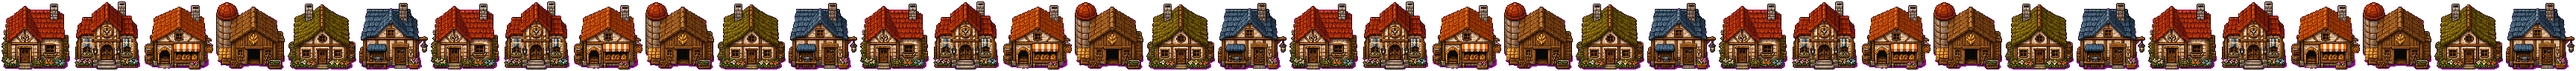
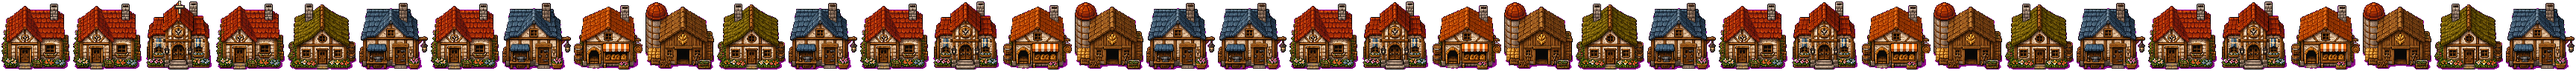
Separate square buildings and identify church

Changed region(s): [[0.0312, 0.0312, 0.125, 1.0], [0.1875, 0.0312, 0.2188, 1.0], [0.4375, 0.0625, 0.4688, 1.0]]

diff --git a/worlds/bigville_world.py b/worlds/bigville_world.py
@@ -436,6 +436,9 @@ class BigvilleWorld:
             self.eng.add_edge_unchecked(self._town, "has_tool", t)
             self._tools[tk] = t
         self._places = {}; self._containers = {}
+        # Building anchors are physical sites, not just labels. Keep each
+        # authored footprint clear so adjacent facades cannot overlap.
+        self._building_sites = {}
         for kind, spec in E.BUILDINGS.items():           # install the town's buildings from the data
             self._install_building(kind, spec)
 
@@ -949,6 +952,7 @@ class BigvilleWorld:
 
     def _anchor_for_building(self, kind):
         work = self._map_layout.get("work", {}) if self._map_layout else {}
+        fixed_sites = self._map_layout.get("building_sites", {}) if self._map_layout else {}
         aliases = {"records_office": "townhall", "watchhouse": "watch", "wellhouse": "market",
                    "latrine": "market", "compost_yard": "farm", "root_cellar": "farm",
                    "granary": "farm", "smokehouse": "bakery", "scriptorium": "press",
@@ -956,7 +960,7 @@ class BigvilleWorld:
                    "woodshop": "carpenter", "sawpit": "carpenter", "tannery": "market",
                    "cobbler": "market", "tailorshop": "market", "weavery": "market",
                    "forge": "mason", "kitchen": "bakery", "dairy": "farm", "wharf": "fish"}
-        target = work.get(kind) or work.get(aliases.get(kind, "")) or work.get("market")
+        target = fixed_sites.get(kind) or work.get(kind) or work.get(aliases.get(kind, "")) or work.get("market")
         if isinstance(target, list):
             target = tuple(target)
         if target in self._map_cells:
@@ -965,6 +969,47 @@ class BigvilleWorld:
             if tuple(pt) in self._map_cells:
                 return tuple(pt)
         return next(iter(self._map_cells), None)
+
+    def _allocate_building_site(self, kind, spec, requested):
+        """Choose the nearest clear walkable site for a building footprint.
+
+        Several services historically shared one anchor cell. That was valid
+        graph data, but it made their physical facades render on top of one
+        another. Each place remains distinct; only its map site is resolved
+        here so buildings have room to stand.
+        """
+        footprint = spec.get("footprint", spec.get("size", (3, 3)))
+        if isinstance(footprint, (int, float)):
+            footprint = (int(footprint), int(footprint))
+        if not isinstance(footprint, (list, tuple)) or len(footprint) != 2:
+            footprint = (3, 3)
+        width, height = max(1, int(footprint[0])), max(1, int(footprint[1]))
+        target = tuple(requested) if requested is not None else (0, 0)
+        map_width = len(self._map_grid[0]) if self._map_grid else 0
+        map_height = len(self._map_grid or [])
+
+        def clear(site):
+            x, y = site
+            if x < 0 or y < 0 or x + width > map_width or y + height > map_height:
+                return False
+            if any((x + dx, y + dy) not in self._map_cells
+                   for dy in range(height) for dx in range(width)):
+                return False
+            for ox, oy, ow, oh in self._building_sites.values():
+                if x < ox + ow and ox < x + width and y < oy + oh and oy < y + height:
+                    return False
+            return True
+
+        candidates = [(x, y) for y in range(max(0, map_height - height + 1))
+                      for x in range(max(0, map_width - width + 1))]
+        candidates.sort(key=lambda site: (abs(site[0] - target[0]) + abs(site[1] - target[1]),
+                                          site[1], site[0]))
+        for site in candidates:
+            if clear(site):
+                return (site[0], site[1], width, height)
+        # Custom scenarios may deliberately pack buildings tightly. Preserve
+        # the requested anchor rather than making world construction fail.
+        return (target[0], target[1], width, height)
 
     def _attach_at_cell(self, node, cell, edge="at_cell"):
         if cell in self._map_cells:
@@ -2953,7 +2998,10 @@ class BigvilleWorld:
             r = self.eng.add_node("Room", {"kind": room})
             self.eng.add_edge_unchecked(p, "has_room", r)
         self._places[place_key] = p
-        self._attach_at_cell(p, cell if cell is not None else self._anchor_for_building(kind))
+        requested = cell if cell is not None else self._anchor_for_building(kind)
+        site = self._allocate_building_site(place_key, spec, requested)
+        self._building_sites[place_key] = site
+        self._attach_at_cell(p, site[:2])
         return p
 
     def building(self, kind): return self._places.get(kind)

diff --git a/tests/test_bigville_world_migrated.py b/tests/test_bigville_world_migrated.py
@@ -1158,6 +1158,18 @@ def test_civic_buildings_and_town_square_fixtures_are_seeded_into_the_map():
     assert {"market_stall", "noticeboard", "well", "bench"} <= kinds
 
 
+def test_physical_building_footprints_do_not_overlap():
+    w = World.from_town100()
+    sites = w._building_sites
+    assert len(sites) == len(w.buildings())
+    for name, (x, y, width, height) in sites.items():
+        for other, (ox, oy, owidth, oheight) in sites.items():
+            if name >= other:
+                continue
+            assert not (x < ox + owidth and ox < x + width and
+                        y < oy + oheight and oy < y + height)
+
+
 def test_map_entities_have_home_work_land_and_building_anchors():
     w = World.from_town100()
     # The expanded road network is intentionally gently winding, so the deterministic home
@@ -1165,7 +1177,8 @@ def test_map_entities_have_home_work_land_and_building_anchors():
     assert w.map_position("John") in w._map_cells
     assert w.terrain_state(w.map_position("John"))["terrain"] in {"grass", "floor", "square", "path"}
     assert w.map_position("farm_plot_00") in w._map_cells
-    assert w.building_position("records_office") == tuple(w._map_layout["work"]["townhall"])
+    assert w.building_position("records_office") in w._map_cells
+    assert w.building_position("records_office") != w.building_position("townhall")
     old = w.actor_position("John")
     new = w.move_actor("John", w.building_position("records_office"))
     assert new != old and w.distance(new, w.building_position("records_office")) < w.distance(old, w.building_position("records_office"))

diff --git a/tools/build_style_assets.py b/tools/build_style_assets.py
@@ -470,9 +470,25 @@ def build_buildings(manifest: dict, buildings_sheet: Image.Image) -> dict:
     sprites = {}
     # Families are intentionally repeated across institutions: the important
     # distinction is the building's semantic type and footprint, while the
-    # village remains visually coherent rather than becoming a collage.
+    # village remains visually coherent rather than becoming a collage. Civic
+    # buildings get deliberate source families so the church reads as a church.
+    source_family = {
+        "church": 1, "townhall": 0, "school": 5, "records_office": 5,
+        "watchhouse": 5, "bank": 0, "press": 5, "store": 2,
+    }
     for i, name in enumerate(names):
-        frame = fit_sprite(cells[i % len(cells)], (BUILDING, BUILDING), pad=2, bottom=True)
+        source_index = source_family.get(name, i % len(cells))
+        frame = fit_sprite(cells[source_index], (BUILDING, BUILDING), pad=2, bottom=True)
+        if name == "church":
+            # The source chapel facade has the right proportions and stained
+            # glass, but needs one unmistakable landmark detail at this scale.
+            draw = ImageDraw.Draw(frame)
+            dark = (47, 38, 34, 255)
+            stone = (220, 198, 151, 255)
+            draw.rectangle((47, 1, 50, 18), fill=dark)
+            draw.rectangle((48, 2, 49, 17), fill=stone)
+            draw.rectangle((42, 7, 55, 11), fill=dark)
+            draw.rectangle((44, 8, 53, 9), fill=stone)
         sheet.alpha_composite(frame, (i * BUILDING, 0))
         sprites[name] = i
     sheet.save(ASSETS / "style_buildings.png")

diff --git a/worlds/bigville_town100_world.py b/worlds/bigville_town100_world.py
@@ -325,6 +325,22 @@ _WORK_ANCHORS = {
     "manor":      (41, 30), "market": (23, 18),
 }
 
+# Physical facades are larger than their service anchor cells. Keep the
+# town's fixed institutions and workshops on separate clear sites so the
+# renderer can show the village as a village rather than a stack of services.
+_BUILDING_SITES = {
+    "forge": (45, 14), "woodshop": (34, 8), "mill": (13, 12),
+    "sawpit": (39, 6), "cooperage": (38, 9), "tannery": (10, 15),
+    "cobbler": (12, 20), "school": (16, 22), "printshop": (25, 10),
+    "weavery": (35, 28), "tailorshop": (13, 26), "inn": (30, 20),
+    "dyehouse": (28, 12), "bakery": (28, 24), "kitchen": (32, 30),
+    "dairy": (38, 25), "wharf": (1, 6), "granary": (36, 26),
+    "root_cellar": (42, 22), "wellhouse": (16, 14), "latrine": (9, 18),
+    "compost_yard": (34, 32), "smokehouse": (42, 28), "townhall": (21, 12),
+    "church": (25, 12), "watchhouse": (18, 28), "records_office": (25, 7),
+    "scriptorium": (30, 8), "shambles": (16, 8),
+}
+
 
 def build_town_100(seed=SEED_DEFAULT):
     """Return (grid, affordances, layout). Deterministic in `seed`. build_town()
@@ -376,6 +392,7 @@ def build_town_100(seed=SEED_DEFAULT):
 
     # --- deposits: a walkable comp cell adjacent to each body -------------------
     layout = {"w": W, "h": H, "deposits": {}, "work": {}, "farms": [], "homes": [],
+              "building_sites": dict(_BUILDING_SITES),
               "square": {"x": 18, "y": 15, "w": 11, "h": 7, "center": (23, 18)}}
     ordered = sorted(comp)
     for kind, tile in _BODY_TILE.items():
